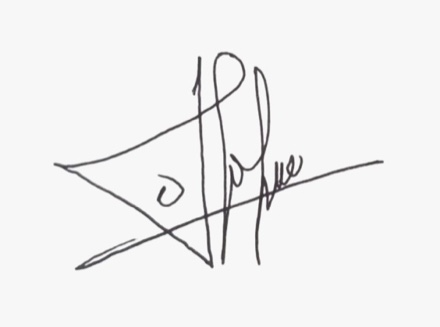
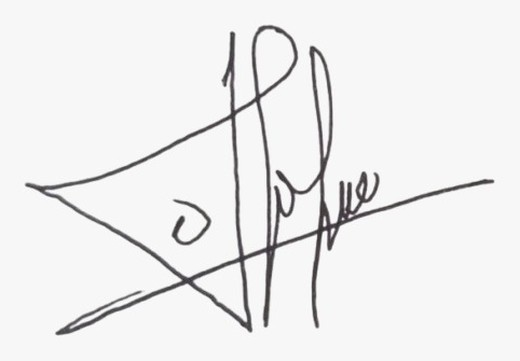
style(trust): enlarge director signatures, trim whitespace to match text scale

Changed region(s): [[0.0295, 0.0612, 0.9455, 0.948], [0.1182, 0.5505, 0.1477, 0.581]]

diff --git a/kawa-living/index.html b/kawa-living/index.html
@@ -526,7 +526,7 @@
     }
     .greet__quote::before { content: "\201C"; color: var(--orange); }
     .greet__quote::after  { content: "\201D"; color: var(--orange); }
-    .greet__sign { height: 52px; max-width: 180px; object-fit: contain; mix-blend-mode: multiply; display: block; margin-bottom: 14px; }
+    .greet__sign { height: 72px; max-width: 250px; object-fit: contain; object-position: left center; mix-blend-mode: multiply; display: block; margin-bottom: 16px; }
     .greet__name { font-family: var(--font-display); font-size: 18px; font-weight: 600; color: var(--navy); letter-spacing: -.01em; }
     .greet__role { font-size: 13px; color: var(--muted); margin-top: 4px; }
     @media (max-width: 860px) {

diff --git a/tentrem-bhumi/index.html b/tentrem-bhumi/index.html
@@ -1157,7 +1157,7 @@ img { display: block; }
 }
 .greet__quote::before { content: "\201C"; color: var(--orange); }
 .greet__quote::after  { content: "\201D"; color: var(--orange); }
-.greet__sign { height: 52px; max-width: 180px; object-fit: contain; mix-blend-mode: multiply; display: block; margin-bottom: 14px; }
+.greet__sign { height: 72px; max-width: 250px; object-fit: contain; object-position: left center; mix-blend-mode: multiply; display: block; margin-bottom: 16px; }
 .greet__name { font-family: var(--font-display); font-size: 18px; font-weight: 600; color: var(--navy); letter-spacing: -.01em; }
 .greet__role { font-size: 13px; color: var(--muted); margin-top: 4px; }
 @media (max-width: 860px) {
